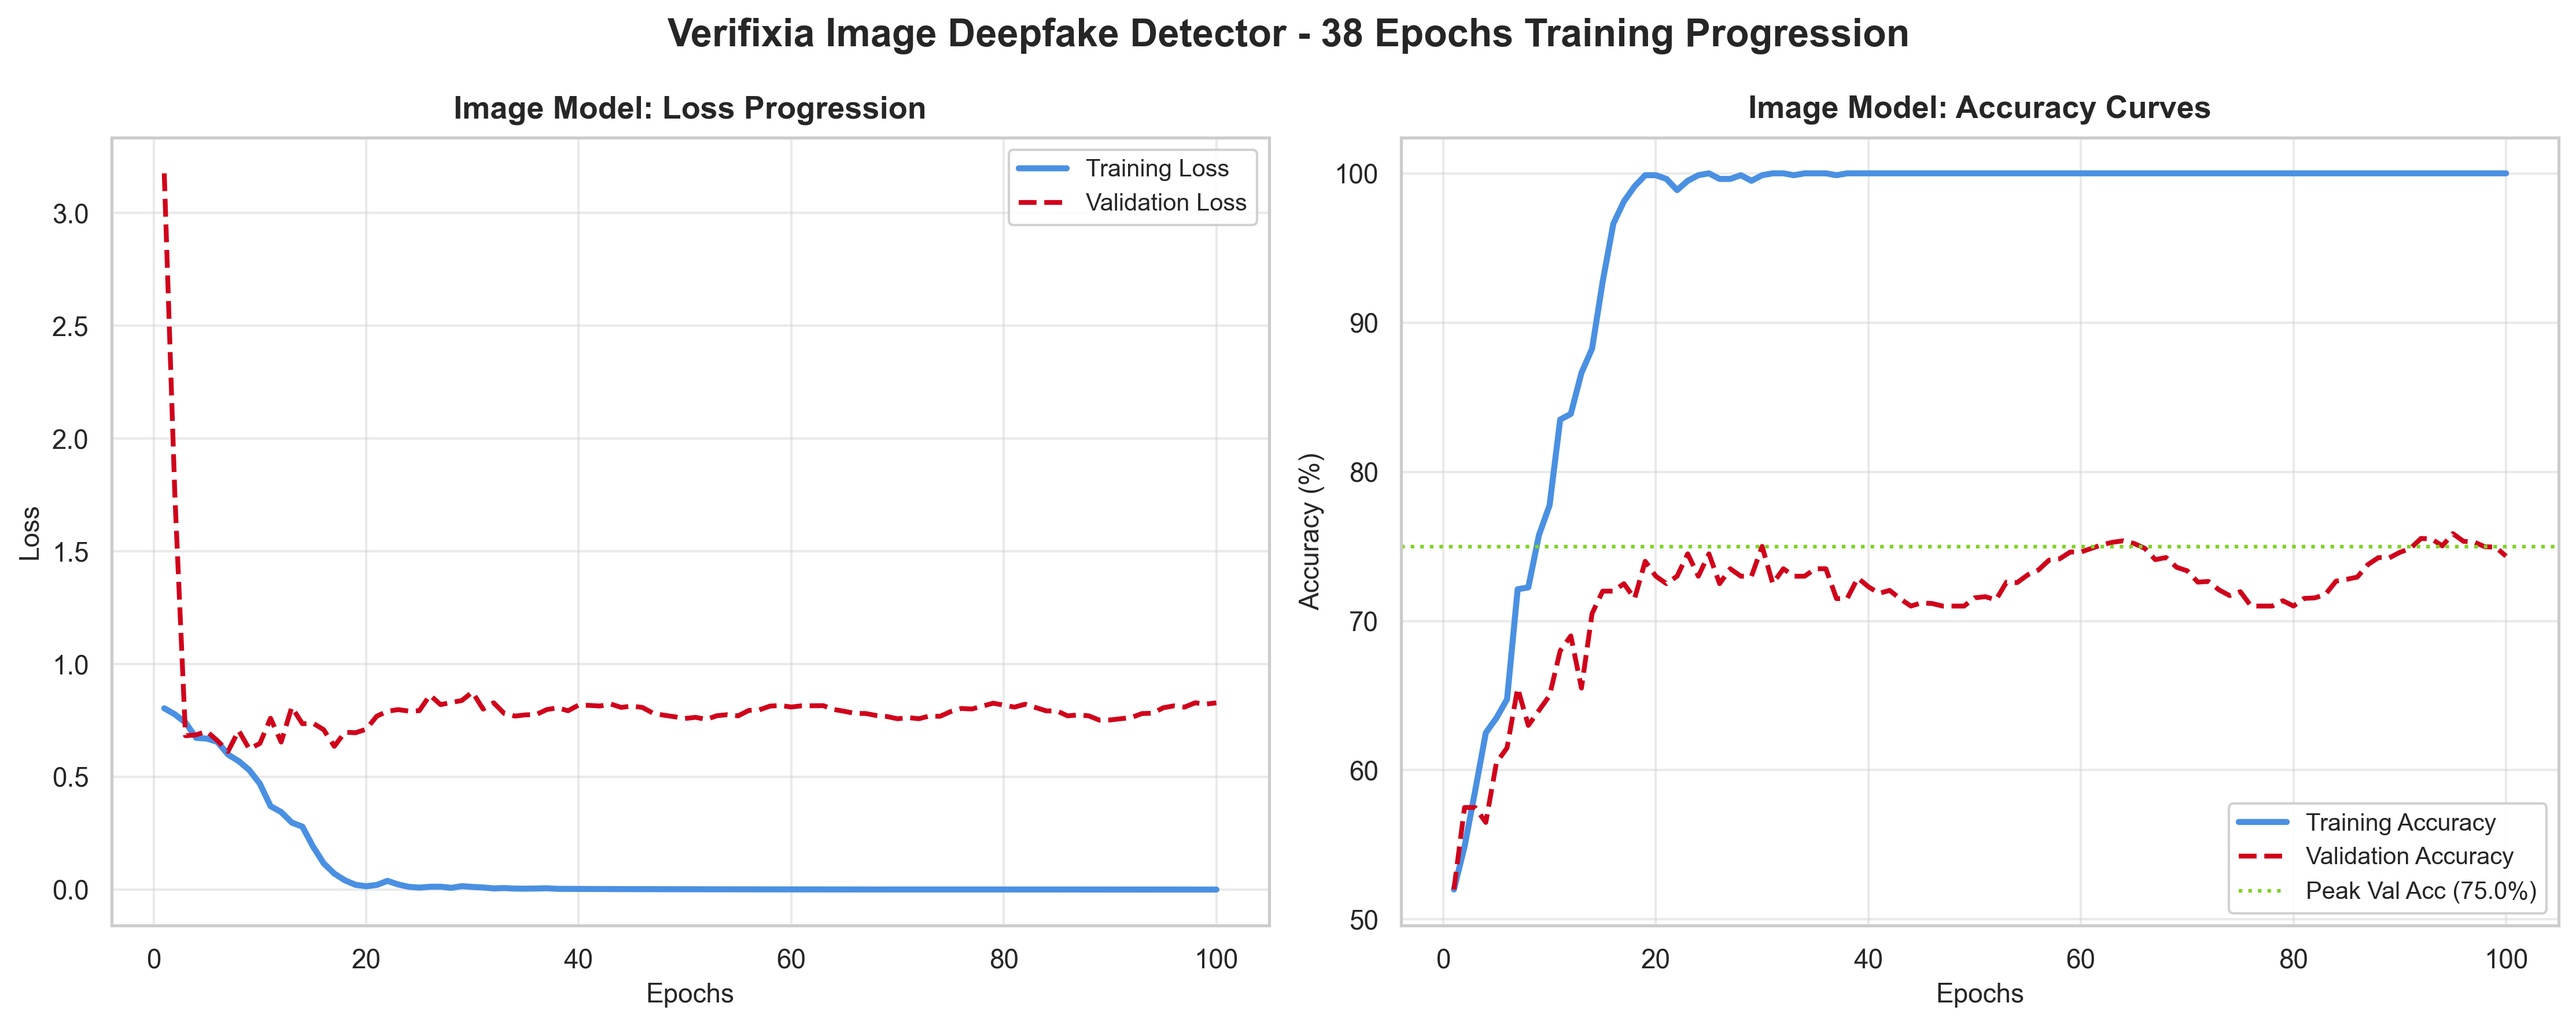
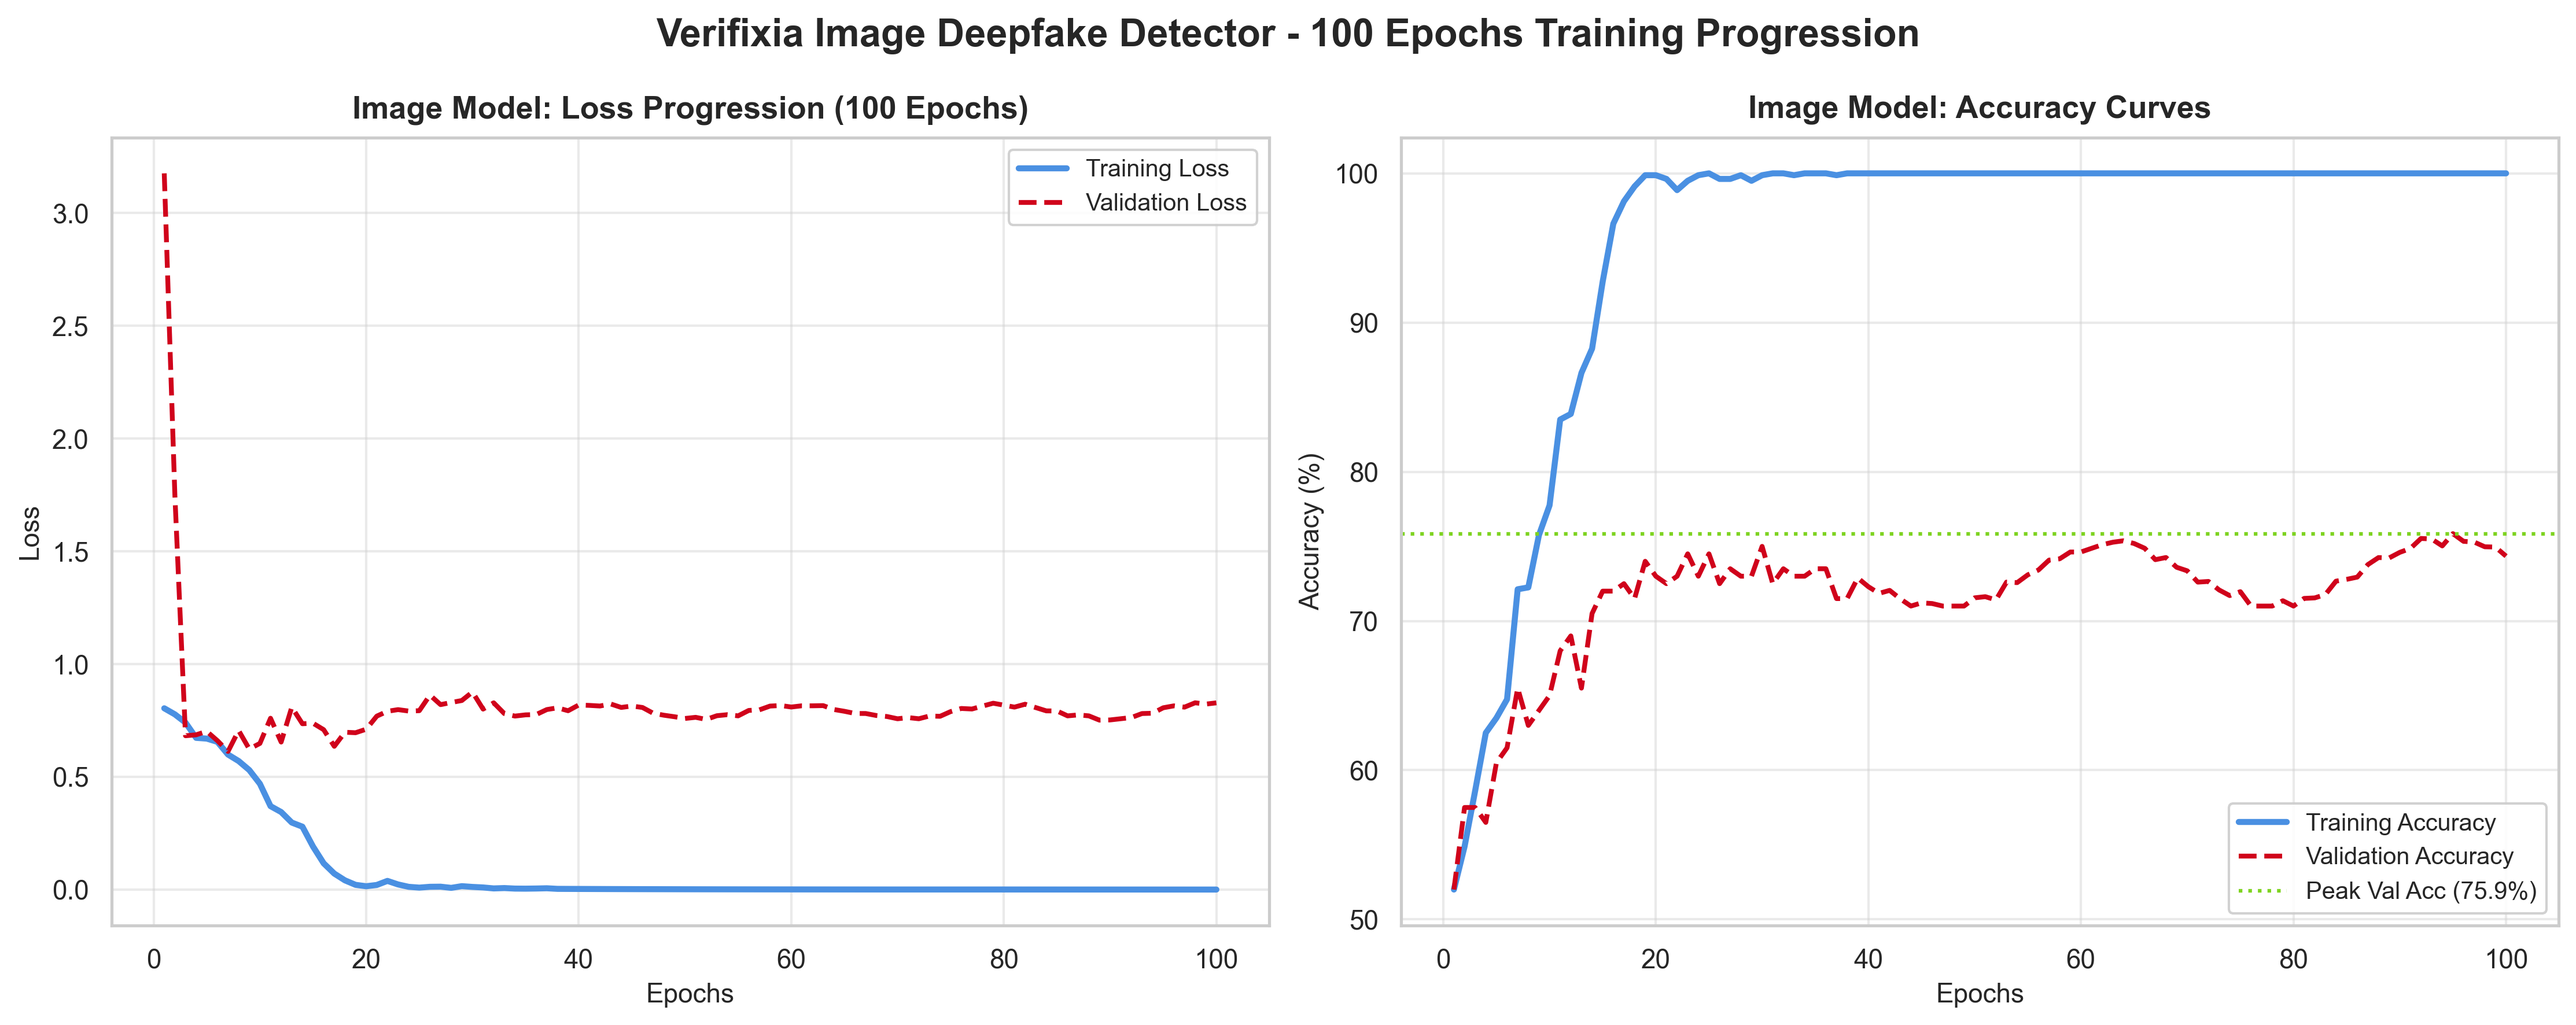
Refactor visualization scripts for dynamic image model plotting and generate full 100 epochs image training curve

Changed region(s): [[0.2497, 0.0, 0.7492, 0.0621], [0.1249, 0.0931, 0.4058, 0.1242]]

diff --git a/scripts/generate_training_graphs.py b/scripts/generate_training_graphs.py
@@ -28,16 +28,18 @@ def generate_graphs():
     plt.rcParams["font.family"] = "sans-serif"
     plt.rcParams["font.sans-serif"] = ["Inter", "Roboto", "Helvetica", "Arial"]
     
-    # ------------------ 1. IMAGE TRAINING GRAPHS (38 Epochs) ------------------
+    # ------------------ 1. IMAGE TRAINING GRAPHS (Dynamic Epochs) ------------------
     print("Generating Image model training graphs...")
     img_epochs = list(range(1, len(img_history["train_loss"]) + 1))
+    img_epoch_count = len(img_epochs)
+    peak_img_acc = max(img_history["val_acc"]) * 100
     
     fig, axs = plt.subplots(1, 2, figsize=(15, 6))
     
     # Loss curves
     axs[0].plot(img_epochs, img_history["train_loss"], label="Training Loss", color="#4A90E2", linewidth=2.5)
     axs[0].plot(img_epochs, img_history["val_loss"], label="Validation Loss", color="#D0021B", linewidth=2, linestyle="--")
-    axs[0].set_title("Image Model: Loss Progression", fontsize=13, fontweight="bold", pad=8)
+    axs[0].set_title(f"Image Model: Loss Progression ({img_epoch_count} Epochs)", fontsize=13, fontweight="bold", pad=8)
     axs[0].set_xlabel("Epochs", fontsize=11)
     axs[0].set_ylabel("Loss", fontsize=11)
     axs[0].legend(frameon=True, facecolor="white", framealpha=0.9, fontsize=10)
@@ -46,14 +48,14 @@ def generate_graphs():
     # Accuracy curves
     axs[1].plot(img_epochs, [a * 100 for a in img_history["train_acc"]], label="Training Accuracy", color="#4A90E2", linewidth=2.5)
     axs[1].plot(img_epochs, [a * 100 for a in img_history["val_acc"]], label="Validation Accuracy", color="#D0021B", linewidth=2, linestyle="--")
-    axs[1].axhline(75.0, color="#7ED321", linestyle=":", label="Peak Val Acc (75.0%)")
+    axs[1].axhline(peak_img_acc, color="#7ED321", linestyle=":", label=f"Peak Val Acc ({peak_img_acc:.1f}%)")
     axs[1].set_title("Image Model: Accuracy Curves", fontsize=13, fontweight="bold", pad=8)
     axs[1].set_xlabel("Epochs", fontsize=11)
     axs[1].set_ylabel("Accuracy (%)", fontsize=11)
     axs[1].legend(frameon=True, facecolor="white", framealpha=0.9, fontsize=10)
     axs[1].grid(True, alpha=0.4)
     
-    plt.suptitle("Verifixia Image Deepfake Detector - 38 Epochs Training Progression", fontsize=16, fontweight="bold", y=0.98)
+    plt.suptitle(f"Verifixia Image Deepfake Detector - {img_epoch_count} Epochs Training Progression", fontsize=16, fontweight="bold", y=0.98)
     plt.tight_layout()
     
     img_out = models_dir / "image_training_history.png"

diff --git a/scripts/generate_unified_graphs.py b/scripts/generate_unified_graphs.py
@@ -40,11 +40,13 @@ def generate_graphs():
     
     # ==================== ROW 1: BINARY IMAGE DETECTOR (EfficientNet-B0) ====================
     img_epochs = list(range(1, len(img_history["train_loss"]) + 1))
+    img_epoch_count = len(img_epochs)
+    peak_img_acc = max(img_history["val_acc"]) * 100
     
     # BCE Loss
     axs[0, 0].plot(img_epochs, img_history["train_loss"], label="Training Loss", color="#4A90E2", linewidth=2.5)
     axs[0, 0].plot(img_epochs, img_history["val_loss"], label="Validation Loss", color="#D0021B", linewidth=2, linestyle="--")
-    axs[0, 0].set_title("Image Model: BCE Loss Progression (38 Epochs)", fontsize=13, fontweight="bold", pad=8)
+    axs[0, 0].set_title(f"Image Model: BCE Loss Progression ({img_epoch_count} Epochs)", fontsize=13, fontweight="bold", pad=8)
     axs[0, 0].set_xlabel("Epochs", fontsize=10)
     axs[0, 0].set_ylabel("Loss", fontsize=10)
     axs[0, 0].legend(frameon=True, facecolor="white", framealpha=0.9, fontsize=9)
@@ -53,7 +55,7 @@ def generate_graphs():
     # Accuracy
     axs[0, 1].plot(img_epochs, [a * 100 for a in img_history["train_acc"]], label="Training Accuracy", color="#4A90E2", linewidth=2.5)
     axs[0, 1].plot(img_epochs, [a * 100 for a in img_history["val_acc"]], label="Validation Accuracy", color="#D0021B", linewidth=2, linestyle="--")
-    axs[0, 1].axhline(75.0, color="#7ED321", linestyle=":", label="Peak Accuracy (75.0%)")
+    axs[0, 1].axhline(peak_img_acc, color="#7ED321", linestyle=":", label=f"Peak Accuracy ({peak_img_acc:.1f}%)")
     axs[0, 1].set_title("Image Model: Classification Accuracy curves", fontsize=13, fontweight="bold", pad=8)
     axs[0, 1].set_xlabel("Epochs", fontsize=10)
     axs[0, 1].set_ylabel("Accuracy (%)", fontsize=10)
